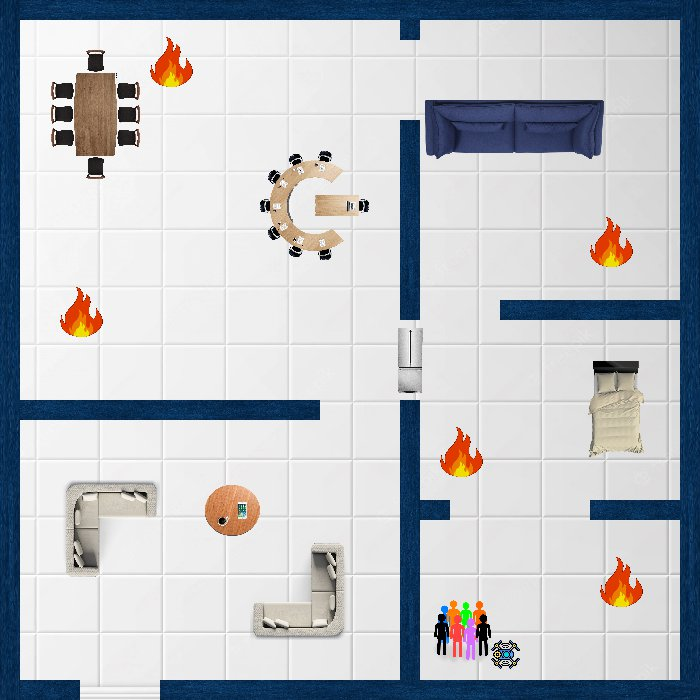
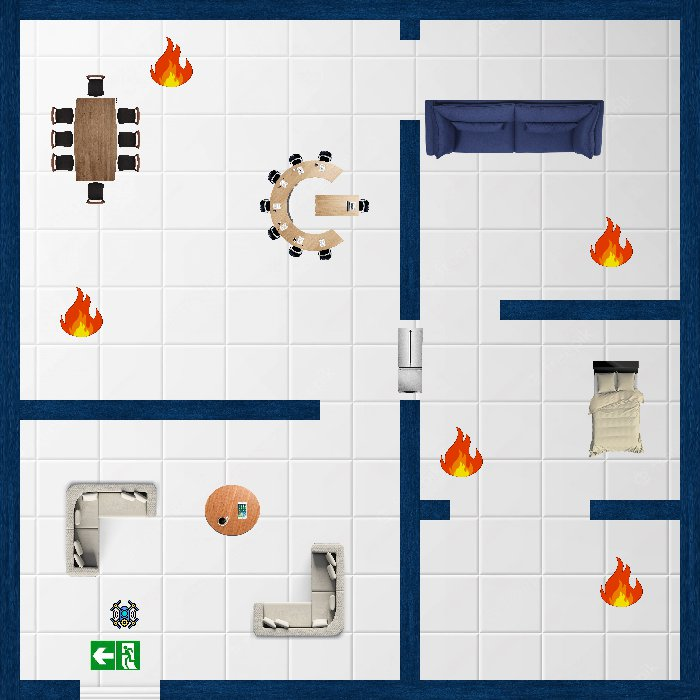
Rescue functionality fully implemented

Changed region(s): [[0.06, 0.06, 0.21, 0.3], [0.6, 0.84, 0.75, 0.96], [0.12, 0.84, 0.21, 0.96]]

diff --git a/Project/FrontEnd/RealTimeEnvironment.py b/Project/FrontEnd/RealTimeEnvironment.py
@@ -1,6 +1,7 @@
 import os
 import time
 import pygame
+from sympy import re
 from Project.Backend.Agent import Agent
 from Project.FrontEnd.Utils.DecisionGrapher import DecisionGrapher
 from Project.FrontEnd.Utils.RealTimeObstacles import fireFlares,grid,obstacles,borders,victimsRect,walls
@@ -131,7 +132,7 @@ class RealTimeEnvironment:
             # for obs in obstacles:
             #     pygame.draw.rect(environment, (255, 0, 0), obs)
 
-            environment.blit(table1,(50,50))
+            environment.blit(table1,(50,75))
             environment.blit(sofa1,(60,480))
             environment.blit(sofa2,(250,540))
             environment.blit(sofa3,(425,100))
@@ -191,13 +192,12 @@ class RealTimeEnvironment:
                 root = Tk()
                 root.withdraw()
                 messagebox.showinfo("Result","Agent successfully reached the victims!")
-                # reward = 0
+                reward = 0
                 RealTimeEnvironment.flag = True
                 rewardHandler = RewardHandler(grid, obstacles, fireFlares, borders,
                                               pygame.Rect(90,620,50,30),RealTimeEnvironment.flag)
 
-            
-
+            # print(reward, RewardHandler.flag)
 
             # Actively listen for event performed
             for event in pygame.event.get():  

diff --git a/Project/FrontEnd/StaticEnvironment.py b/Project/FrontEnd/StaticEnvironment.py
@@ -16,7 +16,7 @@ class StaticEnvironment:
 
         # Initialising objects
         agent = Agent(9,3,'DQN')
-        rewardHandler = RewardHandler(grid, obstacles, fireFlares, borders, victimsRect)
+        rewardHandler = RewardHandler(grid, obstacles, fireFlares, borders, victimsRect, False)
 
         # Environment Dimensions
         width = 700

diff --git a/Project/FrontEnd/Utils/RealTimeObstacles.py b/Project/FrontEnd/Utils/RealTimeObstacles.py
@@ -41,7 +41,7 @@ borders = (
 obstacles = [
 
     # table 1
-    pygame.Rect(50,50,90,130),
+    pygame.Rect(50,75,90,130),
     # sofa 1
     pygame.Rect(60,480,100,40),
     pygame.Rect(60,520,40,60),
